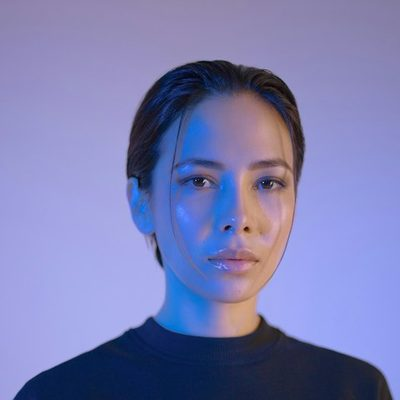
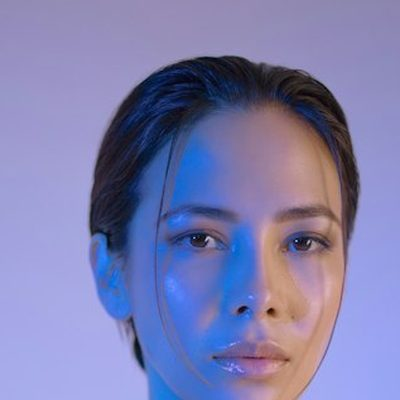
Speaker photos: forest/butter duotone with more contrast, recrop Avery closer
Claude-Session: https://claude.ai/code/session_01TkXBYXUBB49F9wvzrWmWxu

diff --git a/index.html b/index.html
@@ -19,9 +19,14 @@
     <filter id="riso" color-interpolation-filters="sRGB">
       <feColorMatrix type="matrix" values=".3 .59 .11 0 0  .3 .59 .11 0 0  .3 .59 .11 0 0  0 0 0 1 0"/>
       <feComponentTransfer>
-        <feFuncR type="table" tableValues="0.094 0.78 0.957"/>
-        <feFuncG type="table" tableValues="0.247 0.686 0.91"/>
-        <feFuncB type="table" tableValues="0.208 0.91 0.671"/>
+        <feFuncR type="linear" slope="1.35" intercept="-0.12"/>
+        <feFuncG type="linear" slope="1.35" intercept="-0.12"/>
+        <feFuncB type="linear" slope="1.35" intercept="-0.12"/>
+      </feComponentTransfer>
+      <feComponentTransfer>
+        <feFuncR type="table" tableValues="0.094 0.957"/>
+        <feFuncG type="table" tableValues="0.247 0.91"/>
+        <feFuncB type="table" tableValues="0.208 0.671"/>
       </feComponentTransfer>
     </filter>
   </svg>
